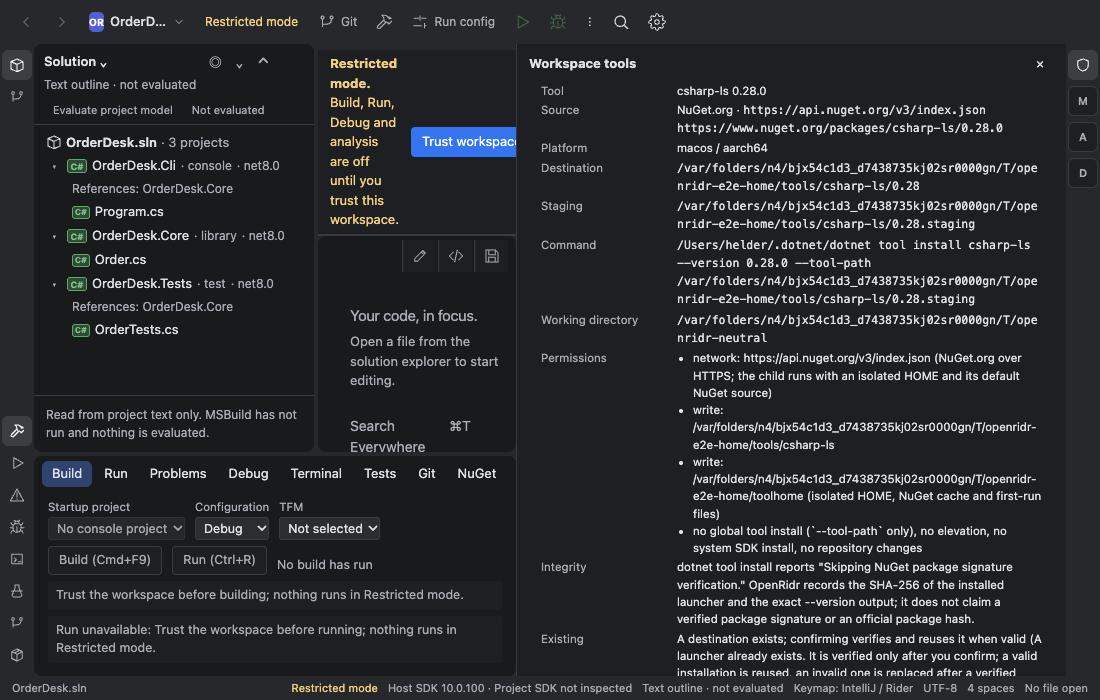
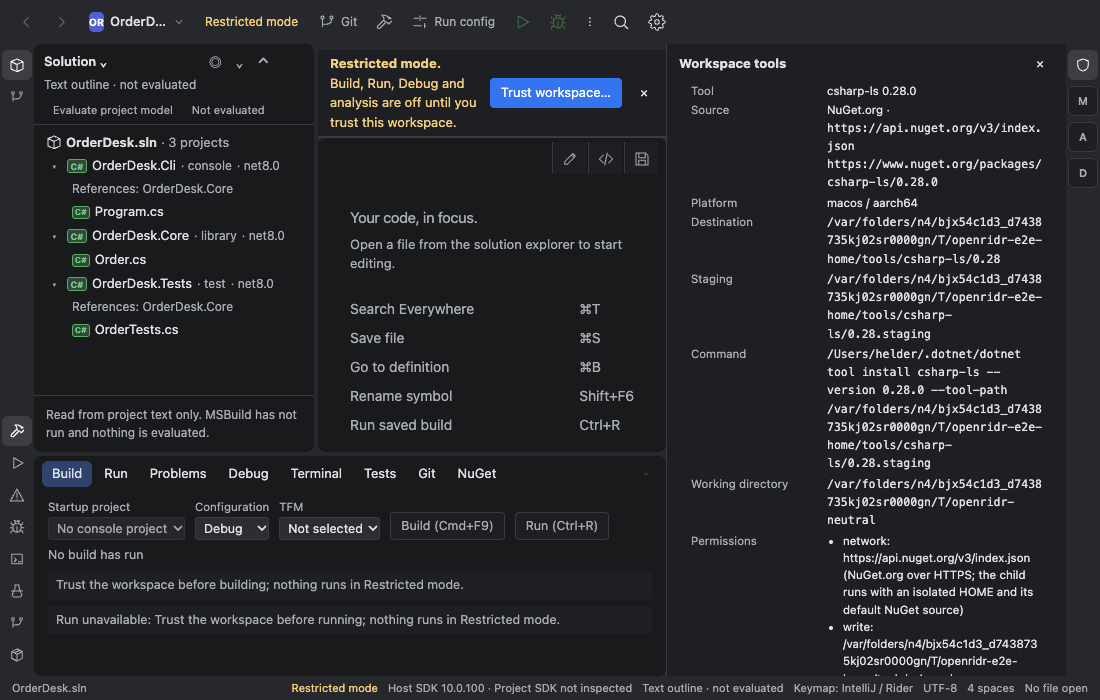
test(gates): assert build/run gate messages and the active first-install confirm

diff --git a/tests/e2e/gates.spec.ts b/tests/e2e/gates.spec.ts
@@ -1,0 +1,65 @@
+import { expect, test, type Page } from "@playwright/test";
+import fs from "node:fs";
+import os from "node:os";
+import path from "node:path";
+
+// Text of the Build/Run/Debug gates in src/executionGates.ts, asserted at real seams.
+const fixture = path.resolve(process.cwd(), "fixtures/OrderDesk");
+
+test.use({ viewport: { width: 1440, height: 900 } });
+test.setTimeout(180_000);
+
+async function openTrustedRestored(page: Page) {
+  const base = fs.mkdtempSync(path.join(os.tmpdir(), "openridr-gates-"));
+  const copy = path.join(base, "OrderDesk");
+  fs.cpSync(fixture, copy, { recursive: true, filter: (s) => !/[\\/](bin|obj)([\\/]|$)/.test(s) });
+  await page.goto("/");
+  await page.getByTestId("workspace-path-input").fill(path.join(copy, "OrderDesk.sln"));
+  await page.getByTestId("workspace-open").click();
+  await page.getByTestId("trust-checkbox").check();
+  await page.getByTestId("trust-grant").click();
+  await expect(page.getByTestId("mode-trusted")).toBeVisible();
+  await page.getByTestId("open-text-only").click();
+  await page.getByTestId("workspace-tools-toggle").click();
+  await expect(page.getByTestId("restore-state")).toContainText("Restore succeeded", { timeout: 60_000 });
+  await expect(page.getByTestId("eval-restore")).toHaveText("Restored", { timeout: 60_000 });
+  await expect(page.getByTestId("eval-state")).toContainText("Evaluated", { timeout: 30_000 });
+  return base;
+}
+
+test("Run is gated until the startup project is built", async ({ page }) => {
+  const base = await openTrustedRestored(page);
+  try {
+    await page.getByTestId("bottom-tab-build").click();
+    await expect(page.getByTestId("run-disabled-reason")).toContainText(
+      "Build the startup project first; Run never builds or restores implicitly.",
+    );
+    await expect(page.getByTestId("run-action")).toBeDisabled();
+    await page.getByTestId("build-action").click();
+    await expect(page.getByTestId("build-state")).toContainText("Build succeeded", { timeout: 60_000 });
+    await expect(page.getByTestId("run-action")).toBeEnabled();
+    await page.getByTestId("build-configuration").selectOption("Release");
+    // Switching configuration re-evaluates the model, which stales the saved build.
+    await expect(page.getByTestId("run-disabled-reason")).toContainText(
+      "The saved build is stale: The project model was re-evaluated",
+      { timeout: 30_000 },
+    );
+    await expect(page.getByTestId("run-action")).toBeDisabled();
+  } finally {
+    fs.rmSync(base, { recursive: true, force: true });
+  }
+});
+
+test("Build and Run name Restricted mode as the reason", async ({ page }) => {
+  await page.goto("/");
+  await page.getByTestId("workspace-path-input").fill(path.join(fixture, "OrderDesk.sln"));
+  await page.getByTestId("workspace-open").click();
+  await page.getByTestId("open-text-only").click();
+  await page.getByTestId("bottom-tab-build").click();
+  await expect(page.getByTestId("build-disabled-reason")).toContainText(
+    "Trust the workspace before building; nothing runs in Restricted mode.",
+  );
+  await expect(page.getByTestId("run-disabled-reason")).toContainText(
+    "Trust the workspace before running; nothing runs in Restricted mode.",
+  );
+});

diff --git a/tests/e2e/install-plan.spec.ts b/tests/e2e/install-plan.spec.ts
@@ -1,5 +1,6 @@
 import { expect, test } from "@playwright/test";
 import path from "node:path";
+import { host } from "./environment";
 
 // Ticket 10: the install plan is readable at 1440x900 and scrolls visibly at 1100x700.
 const solution = path.resolve(process.cwd(), "fixtures/OrderDesk/OrderDesk.sln");
@@ -50,3 +51,32 @@ for (const viewport of [{ width: 1440, height: 900 }, { width: 1100, height: 700
     }
   });
 }
+
+// Trusted first-install plan: Confirm and install is enabled and sits with the material fields. Nothing is clicked.
+test("trusted first-install plan shows an active Confirm and install at 1440x900", async ({ page, request }) => {
+  await page.setViewportSize({ width: 1440, height: 900 });
+  await page.goto("/");
+  await page.getByTestId("workspace-path-input").fill(solution);
+  await page.getByTestId("workspace-open").click();
+  await page.getByTestId("trust-checkbox").check();
+  await page.getByTestId("trust-grant").click();
+  await expect(page.getByTestId("mode-trusted")).toBeVisible();
+  await page.getByTestId("open-text-only").click();
+  await page.getByTestId("workspace-tools-toggle").click();
+  const state = await (await request.post(`${host}/call`, { data: { method: "workspace.state", params: {} } })).json();
+  test.skip(state.data.tools["csharp-ls"].state === "ready", "csharp-ls already installed in this E2E home; run with a fresh OPENRIDR_E2E_HOME");
+  await page.getByTestId("install-plan-open").click();
+  const confirm = page.getByTestId("install-confirm");
+  await expect(confirm).toBeVisible();
+  await expect(confirm).toBeEnabled();
+  await expect(confirm).toHaveText("Confirm and install");
+  const drawer = await page.getByTestId("workspace-tools").boundingBox();
+  const box = (await confirm.boundingBox())!;
+  expect(box.y + box.height).toBeLessThanOrEqual(drawer!.y + drawer!.height);
+  for (const id of ["install-command", "install-destination", "install-staging", "install-integrity", "install-permissions"]) {
+    const field = (await page.getByTestId(id).boundingBox())!;
+    expect(field.y + field.height, `${id} is visible with the active confirm`).toBeLessThanOrEqual(drawer!.y + drawer!.height);
+    expect(box.y).toBeGreaterThan(field.y);
+  }
+  await page.screenshot({ path: "docs/evidence/screenshots/10-install-confirm-active-1440x900.png" });
+});

diff --git a/src/styles.css b/src/styles.css
@@ -485,8 +485,10 @@ kbd { font: 11px var(--sans); color: var(--muted); }
 }
 .workspace-view.left-closed { grid-template-columns: 34px 0 0 minmax(0, 1fr) var(--tools-width, 0px) 34px; }
 .workspace-view.tools-open { --tools-width: 400px; }
-/* An opened install plan needs width so command, destination and integrity read without scrolling. */
-.workspace-view.tools-open:has(.analysis-plan[open]) { --tools-width: min(640px, 50vw); }
+/* An opened install plan needs width (wide windows only; narrower ones scroll the drawer) so command, destination and integrity read without scrolling. */
+@media (min-width: 1300px) {
+  .workspace-view.tools-open:has(.analysis-plan[open]) { --tools-width: 640px; }
+}
 .workspace-view.bottom-closed { grid-template-rows: 44px auto minmax(0, 1fr) 0 0 24px; }
 .workspace-view > .toolbar { grid-column: 1 / -1; grid-row: 1; position: relative; z-index: 30; }
 .workspace-view > .workspace-notices { grid-column: 4; grid-row: 2; max-height: 30vh; }

diff --git a/tests/e2e/restore.spec.ts b/tests/e2e/restore.spec.ts
@@ -147,6 +147,10 @@ test("a failed restore keeps its log, the editor and a working retry", async ({ 
       "not restored",
     );
     await expect(page.getByTestId("restore-retry")).toBeVisible();
+    await page.getByTestId("bottom-tab-build").click();
+    await expect(page.getByTestId("build-disabled-reason")).toContainText(
+      "The evaluated project model is stale; re-evaluate before building.",
+    );
     fs.mkdirSync(screenshots, { recursive: true });
     await page.screenshot({
       path: path.join(screenshots, "04-restore-failure.png"),

diff --git a/docs/implementation-notes.md b/docs/implementation-notes.md
@@ -464,3 +464,11 @@ Welcome — recentes verificados (2026-10-29): spec `welcome lists recent soluti
 - `open -n` abriu o bundle de target como processo próprio (o app do usuário em `~/Applications` ficou intocado); o processo foi encerrado depois (só o PID desta rodada). Evidência: `docs/evidence/screenshots/14-bundle-welcome.png` — janela Welcome com OrderDesk e MissingSdk, SDK 10.0.100 detectado.
 - **Não verificado (bloqueio):** abrir solution → Run com saída → Debug até o breakpoint → terminal no app empacotado. Esta sessão só tem `screencapture`; a automação via `osascript`/System Events exige que o Helder permita "Cindy.app → System Events" (diálogo do macOS) e, segundo o registro anterior, a árvore de acessibilidade não expõe os controles do WKWebView. Não foi marcado como resolvido por inferência.
 - Checklist manual (Helder, no bundle de target ou instalado): 1) abrir OrderDesk.sln e confiar no workspace; 2) clicar Run (Ctrl+R): a janela Run mostra a saída do programa e exit 0 — prova: screenshot; 3) pôr breakpoint em `Program.cs`, Debug: pausa na linha marcada — prova: screenshot; 4) abrir Terminal: aparece prompt do shell e `echo ok` responde — prova: screenshot.
+
+## Correções da revisão independente (2026-10-30)
+
+- **Ticket 01 volta a partial.** Extraídos: gates (`executionGates.ts`) e chamadas ao host (`executionCommands.ts`). Estado React e `start*` de Build/Run/Debug ficam no `WorkspaceView` — teto declarado; o resto é do ticket "Cortes de dívida técnica".
+- Cobertura de texto dos gates movidos, agora: `gates.spec.ts` (Run sem build: "Build the startup project first…"; build obsoleto após re-avaliação: "The saved build is stale…"; Restricted: "Trust the workspace before building/running…"), `run.spec.ts` ("Sources were saved after this build"), `debugger.spec.ts` ("Build the startup project in Debug first"), `restore.spec.ts` (após restore falho, Build bloqueado por "The evaluated project model is stale…"), `zz-acceptance.spec.ts` (Restricted em Build/Debug).
+- **Não verificado por assert de texto:** "sealed" (build de contexto anterior), "another startup project", "not a Debug build", Apple Silicon flag dentro do gate de Debug (o E2E vê antes a razão do adaptador), "Dependencies are not restored" (a razão "stale" vem antes no fluxo alcançável), "More than one console project", "A program is already running", "A debug session is already active".
+- **Ticket 10:** a prova de 1440×900 do plano anterior usou plano de reuso (home do E2E com csharp-ls já instalado, "Install attempt 1 · exit 0"). Agora há spec com workspace Trusted e plano de primeira instalação (home E2E novo via `OPENRIDR_E2E_HOME`, sem clicar em instalar): `Confirm and install` habilitado e abaixo dos campos, dentro da área visível; screenshot `docs/evidence/screenshots/10-install-confirm-active-1440x900.png`. O spec faz skip, com motivo, se o csharp-ls já estiver instalado no home usado — skip não é prova. Ressalva visual corrigida: o drawer só alarga com viewport ≥ 1300px; a 1100×700 mantém 400px e rola, sem espremer o centro.
+- **Ticket 14:** existem duas cópias do app — a do usuário em `~/Applications/OpenRidr.app` (em execução) e `/Applications/OpenRidr.app` (install das 16:52, anterior à sessão). Nenhuma foi tocada; só o bundle em `src-tauri/target` foi gerado e aberto.
